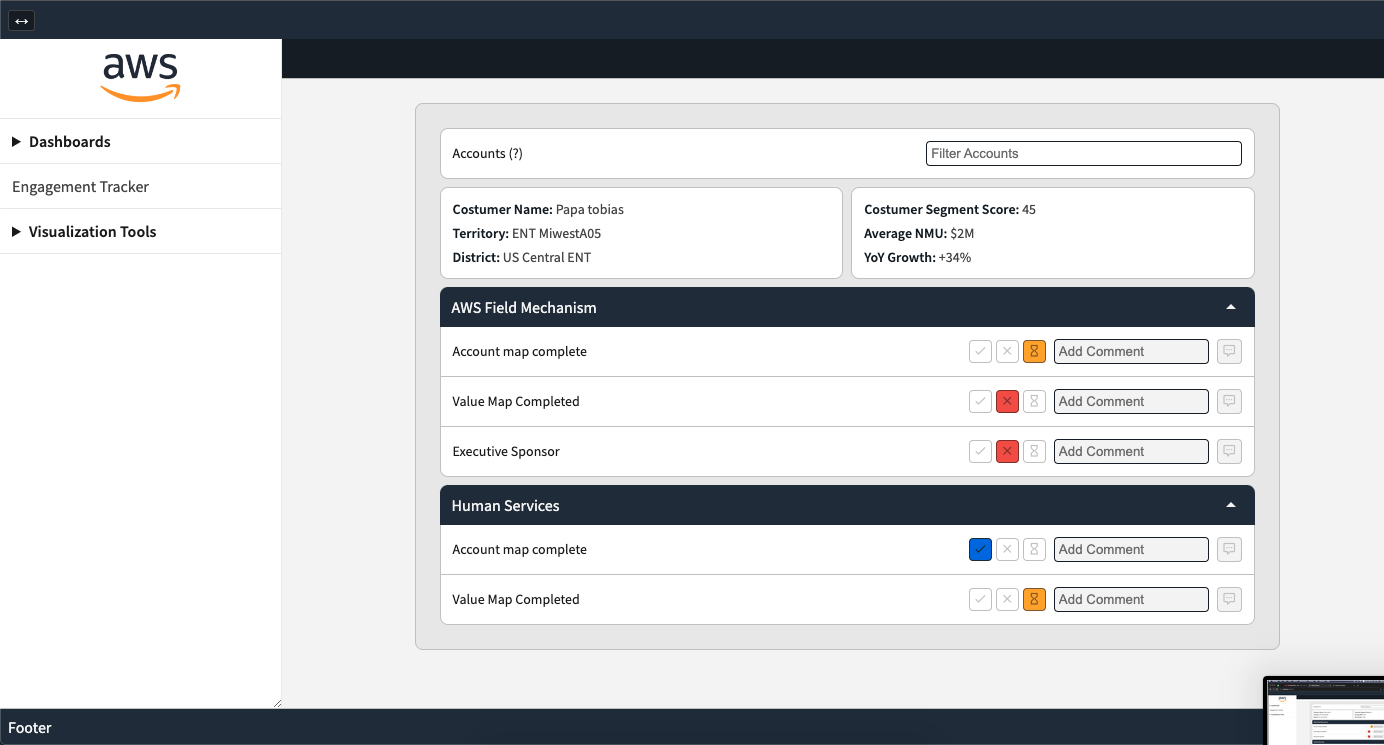
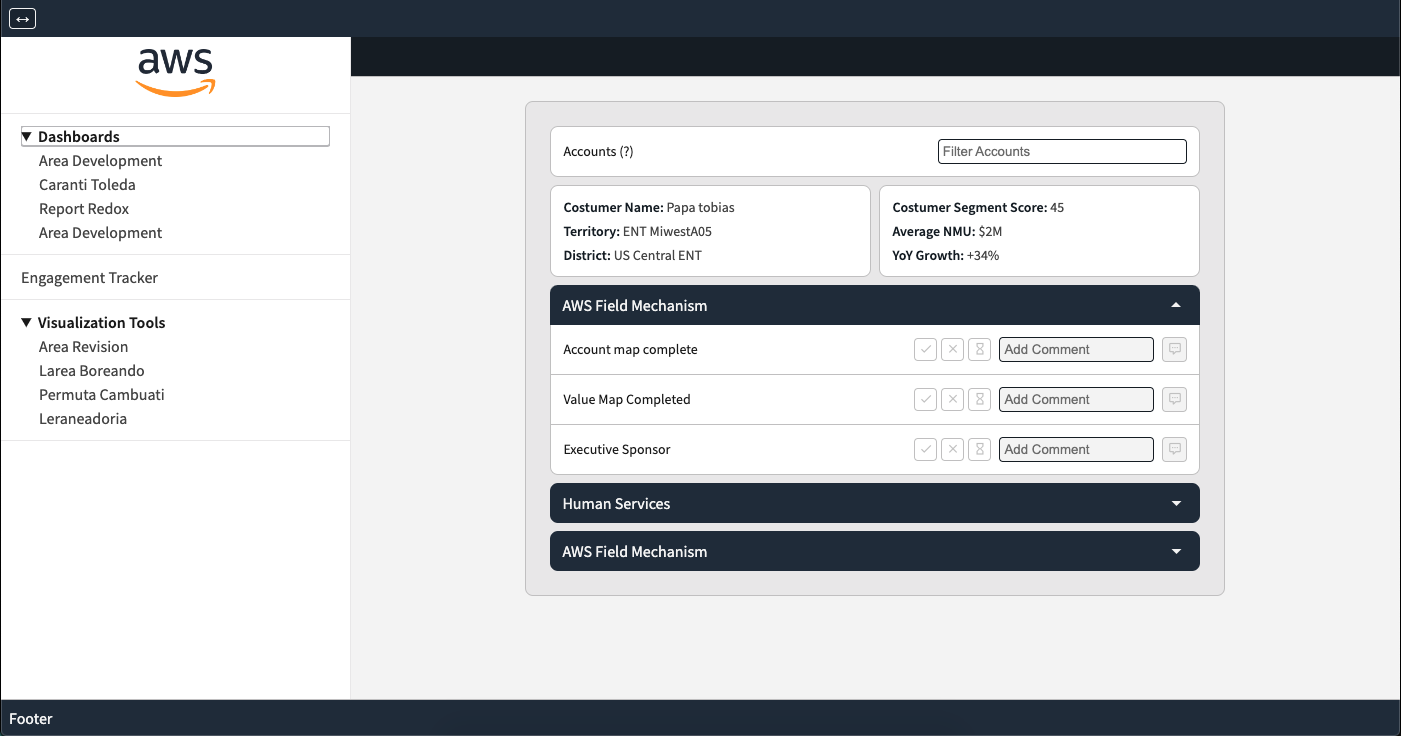
vault backup: 2023-08-17 12:11:00

diff --git a/project-management/dwck-cei-tool/Kanban.md b/project-management/dwck-cei-tool/Kanban.md
@@ -10,6 +10,7 @@ kanban-plugin: basic
 - [ ] Region Dashboard
 - [ ] District Dashboard
 - [ ] Territory Dashboard
+- [ ] Card Template<br><span style='font-size:10px; color: hsl(195, 50%, 70%, .8)'>Area<span/><br>- [ ] task 1<br>- [ ] task 2<br>	- [ ] task 2.1<br>	- [ ] task 2.2<br>- [ ] task 3
 
 
 ## In process

diff --git a/project-management/dwck-cei-tool/task-notes/Engagement Tracker.md b/project-management/dwck-cei-tool/task-notes/Engagement Tracker.md
@@ -1,0 +1,1 @@
+![[new-engagement-tracker.png]]
